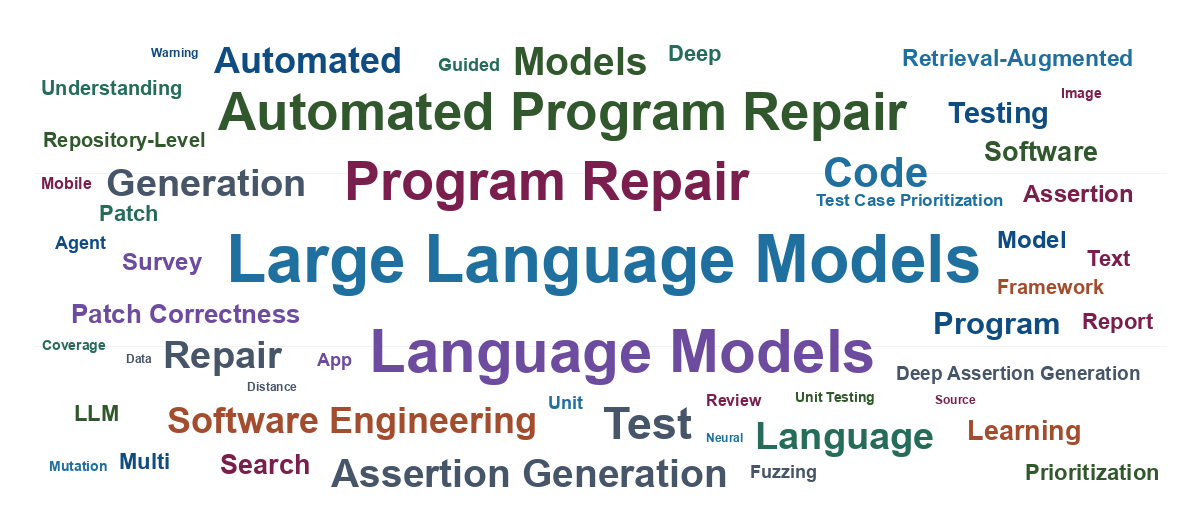
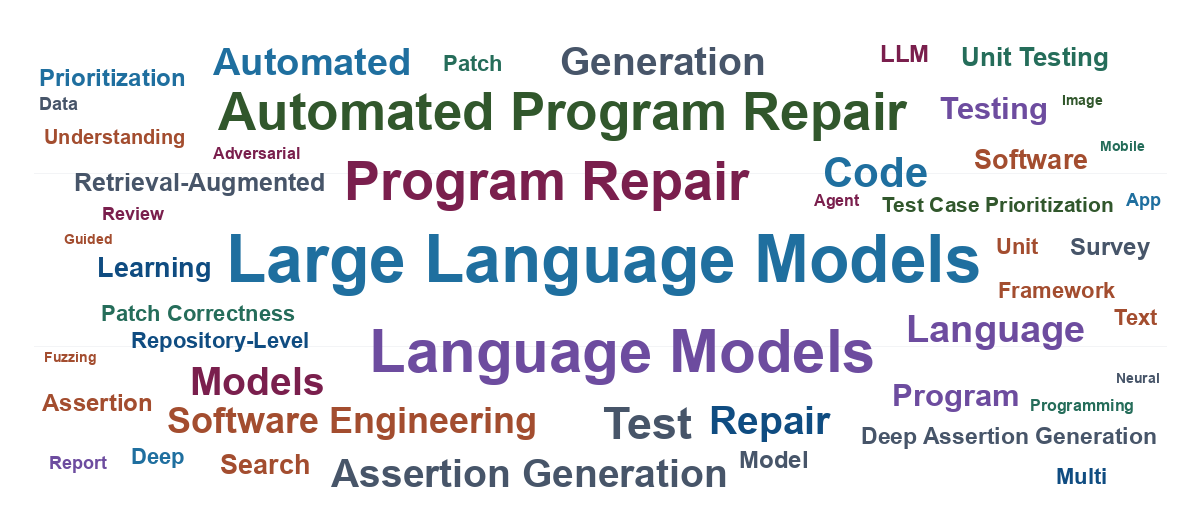
Add TestART publication

diff --git a/_pages/publications.md b/_pages/publications.md
@@ -52,211 +52,215 @@ Note: <sup>&#42;</sup> denotes corresponding author; <sup>&dagger;</sup> denotes
   **Quanjun Zhang**, Chengyu Gao, Yu Han, Ye Shang, Chunrong Fang, Zhenyu Chen, Liang Xiao.<br>
   In *ACM Transactions on Software Engineering and Methodology*, pages to appear, 2026.
 
-7. `EMSE'26` **ComPass: Contrastive Learning for Automated Patch Correctness Assessment in Program Repair**. (CCF-B)<br>
+7. `TOSEM'26` **TestART: Improving LLM-based Unit Testing via Co-evolution of Automated Generation and Repair Iteration**. (<span class="ccf-a">CCF-A</span>)<br>
+  Siqi Gu, **Quanjun Zhang**, Kecheng Li, Chunrong Fang, Fangyuan Tian, Liuchuan Zhu, Jianyi Zhou, Zhenyu Chen.<br>
+  In *ACM Transactions on Software Engineering and Methodology*, pages to appear, 2026.
+
+8. `EMSE'26` **ComPass: Contrastive Learning for Automated Patch Correctness Assessment in Program Repair**. (CCF-B)<br>
   **Quanjun Zhang**, Ye Shang, Haichuan Hu, Chunrong Fang, Zhenyu Chen, Liang Xiao.<br>
   In *Empirical Software Engineering*, pages to appear, 2026.
 
-8. `TOSEM'26` **A Systematic Literature Review on Large Language Models for Automated Program Repair**. (<span class="ccf-a">CCF-A</span>)<br>
+9. `TOSEM'26` **A Systematic Literature Review on Large Language Models for Automated Program Repair**. (<span class="ccf-a">CCF-A</span>)<br>
   **Quanjun Zhang**, Chunrong Fang, Yuxiang Ma, Yang Xie, Weisong Sun, Yun Yang, Zhenyu Chen.<br>
   In *ACM Transactions on Software Engineering and Methodology*, pages to appear, 2026. [[arXiv](https://arxiv.org/abs/2405.01466)] [[Data](https://github.com/iSEngLab/AwesomeLLM4APR)]
 
-9. `CSR'26` **A survey of large language models for legal tasks: Progress, prospects and challenges**. (SCI-Q1, IF 12.8)<br>
+10. `CSR'26` **A survey of large language models for legal tasks: Progress, prospects and challenges**. (SCI-Q1, IF 12.8)<br>
   Congqing He, Haichuan Hu, Yanli Li, Hao Zhang, **Quanjun Zhang**.<br>
   In *Computer Science Review*, pages to appear, 2026.
 
-10. `TOSEM'26` **Abstract Syntax Tree for Programming Language Understanding and Representation**.<br>
+11. `TOSEM'26` **Abstract Syntax Tree for Programming Language Understanding and Representation**.<br>
   Weisong Sun, Chunrong Fang, Yun Miao, Mengzhe Yuan, Zhenpeng Chen, Yuchen Chen, **Quanjun Zhang**, An Guo, Xiang Chen, Zhenyu Chen.<br>
   In *ACM Transactions on Software Engineering and Methodology*, pages to appear, 2026.
 
-11. `QRS'26` **AttnProbe: Steering LLM Attention for Unit Test Generation via Coverage-Guided Pruning and Mutation Feedback**. (CCF-C)<br>
+12. `QRS'26` **AttnProbe: Steering LLM Attention for Unit Test Generation via Coverage-Guided Pruning and Mutation Feedback**. (CCF-C)<br>
   Siqi Gu, Jiawei Liu, Zhaowei Zong, **Quanjun Zhang**, Zhenyu Chen.<br>
   In *International Conference on Software Quality, Reliability and Security*, pages to appear, 2026.
 
-12. `FSE'25-Tool` **A Multi-Agent LLM Framework for Repository-Level Unit Test Generation**. (<span class="ccf-a">CCF-A</span>)<br>
+13. `FSE'25-Tool` **A Multi-Agent LLM Framework for Repository-Level Unit Test Generation**. (<span class="ccf-a">CCF-A</span>)<br>
   Ye Shang, **Quanjun Zhang**<sup>&#42;</sup>, Zhenyu Zhan, Ke Huang, Chunrong Fang<sup>&#42;</sup>, Zhenyu Chen.<br>
   In *ACM International Conference on the Foundations of Software Engineering, Tool Demonstrations Track*, pages to appear.
 
-13. `TOSEM'25` **Pre-trained Model-based Actionable Warning Identification: A Feasibility Study**. (<span class="ccf-a">CCF-A</span>)<br>
+14. `TOSEM'25` **Pre-trained Model-based Actionable Warning Identification: A Feasibility Study**. (<span class="ccf-a">CCF-A</span>)<br>
   Xiuting Ge, Chunrong Fang, **Quanjun Zhang**, Daoyuan Wu, Bowen Yu, Qirui Zheng, An Guo, Shang-wei Lin, Zhihong Zhao, Yang Liu, Zhenyu Chen.<br>
   In *ACM Transactions on Software Engineering and Methodology*, pages to appear, 2025.
 
-14. `SCIS'25` **A Survey on Large Language Models for Software Engineering**. (<span class="ccf-a">CCF-A</span>)<br>
+15. `SCIS'25` **A Survey on Large Language Models for Software Engineering**. (<span class="ccf-a">CCF-A</span>)<br>
   **Quanjun Zhang**, Chunrong Fang, Yang Xie, Yaxin Zhang, Shengcheng Yu, Weisong Sun, Yun Yang, Zhenyu Chen.<br>
   In *SCIENCE CHINA Information Sciences*, pages to appear, 2025. [[arXiv](https://arxiv.org/abs/2312.15223)] [[Data](https://github.com/iSEngLab/AwesomeLLM4SE)]
 
-15. `CSUR'25` **Vision-Based Mobile App GUI Testing: A Survey**. (SCI-Q1)<br>
+16. `CSUR'25` **Vision-Based Mobile App GUI Testing: A Survey**. (SCI-Q1)<br>
   Shengcheng Yu, Chunrong Fang, Ziyuan Tuo, **Quanjun Zhang**, Chunyang Chen, Zhenyu Chen, Zhendong Su.<br>
   In *ACM Computing Surveys*, pages to appear, 2025.
 
-16. `TOSEM'25` **Hidden Backdoor Attack against Neural Code Search Models**. (<span class="ccf-a">CCF-A</span>)<br>
+17. `TOSEM'25` **Hidden Backdoor Attack against Neural Code Search Models**. (<span class="ccf-a">CCF-A</span>)<br>
   Yuchen Chen, Weisong Sun, Chunrong Fang, **Quanjun Zhang**, Zhenyu Chen, Xiangyu Zhang.<br>
   In *ACM Transactions on Software Engineering and Methodology*, pages to appear, 2025.
 
-17. `FCS'25` **TestBench: Evaluating Class-Level Test Case Generation Capability of Large Language Models**. (CCF-B)<br>
+18. `FCS'25` **TestBench: Evaluating Class-Level Test Case Generation Capability of Large Language Models**. (CCF-B)<br>
   **Quanjun Zhang**, Ye Shang, Chunrong Fang, Siqi Gu, Jianyi Zhou, Zhenyu Chen.<br>
   In *Frontiers of Computer Science*, pages to appear, 2025.
 
-18. `TOSEM'25` **ACTesting: Automated Cross-modal Testing Method of Text-to-Image Software**. (<span class="ccf-a">CCF-A</span>)<br>
+19. `TOSEM'25` **ACTesting: Automated Cross-modal Testing Method of Text-to-Image Software**. (<span class="ccf-a">CCF-A</span>)<br>
   Siqi Gu, Chunrong Fang, **Quanjun Zhang**, Zhenyu Chen.<br>
   In *ACM Transactions on Software Engineering and Methodology*, pages to appear, 2025.
 
-19. `TOSEM'25` **Security of Language Models for Code: A Systematic Literature Review**. (<span class="ccf-a">CCF-A</span>)<br>
+20. `TOSEM'25` **Security of Language Models for Code: A Systematic Literature Review**. (<span class="ccf-a">CCF-A</span>)<br>
   Yuchen Chen, Weisong Sun, Chunrong Fang, Zhenpeng Chen, Yifei Ge, Tingxu Han, **Quanjun Zhang**, Yang Liu, Zhenyu Chen, Baowen Xu.<br>
   In *ACM Transactions on Software Engineering and Methodology*, pages to appear, 2025.
 
-20. `TSE'25` **Improving Retrieval-Augmented Deep Assertion Generation via Joint Training**. (<span class="ccf-a">CCF-A</span>)<br>
+21. `TSE'25` **Improving Retrieval-Augmented Deep Assertion Generation via Joint Training**. (<span class="ccf-a">CCF-A</span>)<br>
   **Quanjun Zhang**, Chunrong Fang, Yi Zheng, Ruixiang Qian, Shengcheng Yu, Yuan Zhao, Jianyi Zhou, Yun Yang, Tao Zheng, Zhenyu Chen.<br>
   In *IEEE Transactions on Software Engineering*, pages to appear, 2025.
 
-21. `TOSEM'25` **Improving Deep Assertion Generation via Fine-Tuning Retrieval-Augmented Pre-trained Language Models**. (<span class="ccf-a">CCF-A</span>)<br>
+22. `TOSEM'25` **Improving Deep Assertion Generation via Fine-Tuning Retrieval-Augmented Pre-trained Language Models**. (<span class="ccf-a">CCF-A</span>)<br>
   **Quanjun Zhang**, Chunrong Fang, Yi Zheng, Yaxin Zhang, Yuan Zhao, Rubing Huang, Jianyi Zhou, Yun Yang, Tao Zheng, Zhenyu Chen.<br>
   In *ACM Transactions on Software Engineering and Methodology*, pages to appear, 2025.
 
-22. `ISSTA'25` **A Large-scale Empirical Study on Fine-tuning Large Language Models for Unit Testing**. (<span class="ccf-a">CCF-A</span>)<br>
+23. `ISSTA'25` **A Large-scale Empirical Study on Fine-tuning Large Language Models for Unit Testing**. (<span class="ccf-a">CCF-A</span>)<br>
   Ye Shang, **Quanjun Zhang**<sup>&dagger;</sup>, Chunrong Fang, Siqi Gu, Jianyi Zhou, Zhenyu Chen.<br>
   In *Proceedings of the ACM SIGSOFT International Symposium on Software Testing and Analysis (ISSTA 2025)*, pages to appear. [Acceptance rate: 4.16% (23 / 553)]
 
-23. `JOS'25` **Deep Learning Operator Testing for RISC-V Architecture**. (<span class="ccf-a">CCF-A</span>)<br>
+24. `JOS'25` **Deep Learning Operator Testing for RISC-V Architecture**. (<span class="ccf-a">CCF-A</span>)<br>
   Jiawei Liu, Yan Gao, **Quanjun Zhang**, Ye Shang, Chunrong Fang, Zhenyu Chen.<br>
   In *Journal of Software* (in Chinese), pages to appear, 2025.
 
-24. `JOS'25` **Research Progress of Retrieval-Augmented Generation in Software Engineering**. (<span class="ccf-a">CCF-A</span>)<br>
+25. `JOS'25` **Research Progress of Retrieval-Augmented Generation in Software Engineering**. (<span class="ccf-a">CCF-A</span>)<br>
   **Quanjun Zhang**, Yang Xie, Chunrong Fang<sup>&#42;</sup>, Shengcheng Yu, Yuan Zhao, Zhenyu Chen.<br>
   In *Journal of Software* (in Chinese), pages to appear, 2025.
 
-25. `JOS'25` **Semantic Matching-based Cross-Platform Mobile App Test Script Record and Replay via Large Language Models**. (<span class="ccf-a">CCF-A</span>)<br>
+26. `JOS'25` **Semantic Matching-based Cross-Platform Mobile App Test Script Record and Replay via Large Language Models**. (<span class="ccf-a">CCF-A</span>)<br>
   Shengcheng Yu, Chunrong Fang<sup>&#42;</sup>, Ye Zhong, **Quanjun Zhang**, Qin Liu, Jia Liu, Tao Zheng, Zhenyu Chen.<br>
   In *Journal of Software* (in Chinese), pages to appear, 2024.
 
-26. `TSE'24` **Enhanced Crowdsourced Test Report Prioritization via Image-and-Text Semantic Understanding and Feature Integration**. (<span class="ccf-a">CCF-A</span>)<br>
+27. `TSE'24` **Enhanced Crowdsourced Test Report Prioritization via Image-and-Text Semantic Understanding and Feature Integration**. (<span class="ccf-a">CCF-A</span>)<br>
   Chunrong Fang, Shengcheng Yu, **Quanjun Zhang**, Xin Li, Yulei Liu, and Zhenyu Chen.<br>
   In *IEEE Transactions on Software Engineering*, pages to appear, 2024.
 
-27. `APR'25` **Can GPT-O1 Kill All Bugs? An Evaluation of GPT-Family LLMs on QuixBugs**.<br>
+28. `APR'25` **Can GPT-O1 Kill All Bugs? An Evaluation of GPT-Family LLMs on QuixBugs**.<br>
   Haichuan Hu, Ye Shang, Guolin Xu, Congqing He, **Quanjun Zhang**<sup>&#42;</sup>.<br>
   In *The 6th International Workshop on Automated Program Repair (APR 2025)*.
 
-28. `FSE'25` **Eliminating Backdoors in Neural Code Models for Secure Code Understanding**. (<span class="ccf-a">CCF-A</span>)<br>
+29. `FSE'25` **Eliminating Backdoors in Neural Code Models for Secure Code Understanding**. (<span class="ccf-a">CCF-A</span>)<br>
   Weisong Sun, Yuchen Chen, Chunrong Fang, Yebo Feng, Yuan Xiao, An Guo, **Quanjun Zhang**, Zhenyu Chen, Baowen Xu, Yang Liu.<br>
   In *Proceedings of the ACM International Conference on the Foundations of Software Engineering (FSE 2025)*, pages to appear.
 
-29. `QRS'25` **Chattss: Improving Test Suite Simplification Via Large Language Models**. (CCF-C)<br>
+30. `QRS'25` **Chattss: Improving Test Suite Simplification Via Large Language Models**. (CCF-C)<br>
   Gaolei Yi, Yuan Zhao, Runkang Feng, **Quanjun Zhang**, Zhenyu Chen.<br>
   In *International Conference on Software Quality, Reliability and Security (QRS)*, pages to appear.
 
-30. `TOSEM'24` **Exploring Automated Assertion Generation via Large Language Models**. (<span class="ccf-a">CCF-A</span>)<br>
+31. `TOSEM'24` **Exploring Automated Assertion Generation via Large Language Models**. (<span class="ccf-a">CCF-A</span>)<br>
   **Quanjun Zhang**, Weifeng Sun, Chunrong Fang, Bowen Yu, Hongyan Li, Meng Yan, Jianyi Zhou, Zhenyu Chen.<br>
   In *ACM Transactions on Software Engineering and Methodology*, pages to appear, 2024.
 
-31. `TOSEM'24` **FunFuzz: Greybox Fuzzing with Function Significance**. (<span class="ccf-a">CCF-A</span>)<br>
+32. `TOSEM'24` **FunFuzz: Greybox Fuzzing with Function Significance**. (<span class="ccf-a">CCF-A</span>)<br>
   Ruixiang Qian, **Quanjun Zhang**, Chunrong Fang, Lihua Guo, Zhenyu Chen.<br>
   In *ACM Transactions on Software Engineering and Methodology*, pages to appear, 2024.
 
-32. `FSE'24` **Semi-Supervised Crowdsourced Test Report Clustering via Screenshot-Text Binding Rules**. (<span class="ccf-a">CCF-A</span>)<br>
+33. `FSE'24` **Semi-Supervised Crowdsourced Test Report Clustering via Screenshot-Text Binding Rules**. (<span class="ccf-a">CCF-A</span>)<br>
   Shengcheng Yu, Chunrong Fang<sup>&#42;</sup>, **Quanjun Zhang**, Mingzhe Du, Jia Liu, Zhenyu Chen.<br>
   In *Proceedings of the 32nd ACM Symposium on the Foundations of Software Engineering (FSE '24)*, July 15--19, 2024, Porto de Galinhas, Brazil.
 
-33. `TOSEM'24` **DiPri: Distance-based Seed Prioritization for Greybox Fuzzing**. (<span class="ccf-a">CCF-A</span>)<br>
+34. `TOSEM'24` **DiPri: Distance-based Seed Prioritization for Greybox Fuzzing**. (<span class="ccf-a">CCF-A</span>)<br>
   Ruixiang Qian, **Quanjun Zhang**, Chunrong Fang, Yang Ding, Shun Li, Zhenyu Chen.<br>
   In *ACM Transactions on Software Engineering and Methodology*, pages to appear, 2024.
 
-34. `TOSEM'24` **A Survey of Source Code Search: A 3-Dimensional Perspective**. (<span class="ccf-a">CCF-A</span>)<br>
+35. `TOSEM'24` **A Survey of Source Code Search: A 3-Dimensional Perspective**. (<span class="ccf-a">CCF-A</span>)<br>
   Weisong Sun, Chunrong Fang, Yifei Ge, Yuling Hu, Yuchen Chen, **Quanjun Zhang**, Xiuting Ge, Yang Liu, Zhenyu Chen.<br>
   In *ACM Transactions on Software Engineering and Methodology*, pages to appear, 2024.
 
-35. `SCIS'24` **Improving Actionable Warning Identification via the Refined Warning-inducing Context Representation**. (<span class="ccf-a">CCF-A</span>)<br>
+36. `SCIS'24` **Improving Actionable Warning Identification via the Refined Warning-inducing Context Representation**. (<span class="ccf-a">CCF-A</span>)<br>
   Xiuting Ge, Chunrong Fang, Xuanye Li, **Quanjun Zhang**, Jia Liu, Zhihong Zhao, Zhenyu Chen.<br>
   In *SCIENCE CHINA Information Sciences*, pages to appear, 2024.
 
-36. `TSE'24` **ESALE: Enhancing Code-Summary Alignment Learning for Source Code Summarization**. (<span class="ccf-a">CCF-A</span>)<br>
+37. `TSE'24` **ESALE: Enhancing Code-Summary Alignment Learning for Source Code Summarization**. (<span class="ccf-a">CCF-A</span>)<br>
   Chunrong Fang, Weisong Sun, Yuchen Chen, Xiao Chen, Zhao Wei, **Quanjun Zhang**, Yudu You, Bin Luo, Yang Liu, Zhenyu Chen.<br>
   In *IEEE Transactions on Software Engineering*, 50(8):2077-2095, 2024.
 
-37. `TSE'24` **APPT: Boosting Automated Patch Correctness Prediction via Fine-tuning Pre-trained Models**. (<span class="ccf-a">CCF-A</span>)<br>
+38. `TSE'24` **APPT: Boosting Automated Patch Correctness Prediction via Fine-tuning Pre-trained Models**. (<span class="ccf-a">CCF-A</span>)<br>
   **Quanjun Zhang**, Chunrong Fang, Weisong Sun, Yan Liu, Tieke He, Xiaodong Hao, Zhenyu Chen.<br>
   In *IEEE Transactions on Software Engineering*, pages to appear, 2024. [[arXiv](https://arxiv.org/abs/2301.12453)] [[Data](https://github.com/iSEngLab/APPT)]
 
-38. `TOSEM'24` **Machine Translation Testing via Syntactic Tree Pruning**. (<span class="ccf-a">CCF-A</span>)<br>
+39. `TOSEM'24` **Machine Translation Testing via Syntactic Tree Pruning**. (<span class="ccf-a">CCF-A</span>)<br>
   **Quanjun Zhang**, Juan Zhai, Chunrong Fang, Jiawei Liu, Weisong Sun, Haichuan Hu and Qingyu Wang.<br>
   In *ACM Transactions on Software Engineering and Methodology*, 39 pages, 2024. [[PDF](https://arxiv.org/abs/2401.00751)] [[Data](https://github.com/iSEngLab/STP)]
 
-39. `TOSEM'23` **A Survey of Learning-based Automated Program Repair**. (<span class="ccf-a">CCF-A</span>, SCI Q1)<br>
+40. `TOSEM'23` **A Survey of Learning-based Automated Program Repair**. (<span class="ccf-a">CCF-A</span>, SCI Q1)<br>
   **Quanjun Zhang**, Chunrong Fang, Yuxiang Ma, Weisong Sun, Zhenyu Chen.<br>
   In *ACM Transactions on Software Engineering and Methodology*, 69 pages, 2023. [[PDF](https://arxiv.org/abs/2301.03270)] [[Data](https://github.com/iSEngLab/AwesomeLearningAPR)]
 
-40. `TDSC'23` **Pre-trained Model-based Automated Software Vulnerability Repair: How Far are We?**. (<span class="ccf-a">CCF-A</span>, SCI Q1)<br>
+41. `TDSC'23` **Pre-trained Model-based Automated Software Vulnerability Repair: How Far are We?**. (<span class="ccf-a">CCF-A</span>, SCI Q1)<br>
   **Quanjun Zhang**, Chunrong Fang, Bowen Yu, Weisong Sun, Tongke Zhang, Zhenyu Chen.<br>
   In *IEEE Transactions on Dependable and Secure Computing*, pages to appear, 2023. [[PDF](https://arxiv.org/pdf/2308.12533.pdf)] [[Data](https://github.com/iSEngLab/LLM4VulFix)]
 
-41. `ASE'23` **GAMMA: Revisiting Template-based Automated Program Repair via Mask Prediction**. (<span class="ccf-a">CCF-A</span>)<br>
+42. `ASE'23` **GAMMA: Revisiting Template-based Automated Program Repair via Mask Prediction**. (<span class="ccf-a">CCF-A</span>)<br>
   **Quanjun Zhang**, Chunrong Fang, Tongke Zhang, Bowen Yu, Weisong Sun, Zhenyu Chen.<br>
   In *38th IEEE/ACM International Conference on Automated Software Engineering (ASE 2023)*, pages to appear, 2023. [[PDF](https://arxiv.org/pdf/2309.09308.pdf)] [[Data](https://github.com/iSEngLab/AwesomeLearningAPR)]
 
-42. `TOSEM'23` **An Extractive-and-Abstractive Framework for Source Code Summarization**. (<span class="ccf-a">CCF-A</span>, SCI Q1)<br>
+43. `TOSEM'23` **An Extractive-and-Abstractive Framework for Source Code Summarization**. (<span class="ccf-a">CCF-A</span>, SCI Q1)<br>
   Weisong Sun, Chunrong Fang, Yuchen Chen, **Quanjun Zhang**, Guanhong Tao, Yudu You, Tingxu Han, Yifei Ge, Yuling Hu, Bin Luo, Zhenyu Chen.<br>
   In *ACM Transactions on Software Engineering and Methodology*, 40 pages, 2023.
 
-43. `ACL'23` **Backdooring Neural Code Search**. (<span class="ccf-a">CCF-A</span>)<br>
+44. `ACL'23` **Backdooring Neural Code Search**. (<span class="ccf-a">CCF-A</span>)<br>
   Weisong Sun, Yuchen Chen, Guanhong Tao, Chunrong Fang, Xiangyu Zhang, **Quanjun Zhang**, Bin Luo.<br>
   In *The 61st Annual Meeting of the Association for Computational Linguistics*, July 9--14, 2023, pages to appear, Toronto, Canada.
 
-44. `TSE'23` **Mobile App Crowdsourced Test Report Consistency Detection via Deep Image-and-Text Fusion Understanding**. (<span class="ccf-a">CCF-A</span>)<br>
+45. `TSE'23` **Mobile App Crowdsourced Test Report Consistency Detection via Deep Image-and-Text Fusion Understanding**. (<span class="ccf-a">CCF-A</span>)<br>
   Shengcheng Yu, Chunrong Fang, **Quanjun Zhang**, Zhihao Cao, Yexiao Yun, Zhenfei Cao, Kai Mei, Zhenyu Chen.<br>
   In *IEEE Transactions on Software Engineering*, pages to appear, 2023.
 
-45. `Globecom'23` **OATGA: Optimizing Adversarial Training via Genetic Algorithm for Automatic Modulation Classification**. (EI)<br>
+46. `Globecom'23` **OATGA: Optimizing Adversarial Training via Genetic Algorithm for Automatic Modulation Classification**. (EI)<br>
   Zhida Bao, Jiawei He, **Quanjun Zhang**, Chunrong Fang, Keshav Sood and Yun Lin.<br>
   In *IEEE Global Communications Conference*, December 4--8, 2023, pages to appear, Kuala Lumpur, Malaysia.
 
-46. `Fuzzing'23` **DiPri: Distance-Based Seed Prioritization for Greybox Fuzzing (Registered Report)**. (EI)<br>
+47. `Fuzzing'23` **DiPri: Distance-Based Seed Prioritization for Greybox Fuzzing (Registered Report)**. (EI)<br>
   Ruixiang Qian, **Quanjun Zhang**, Chunrong Fang, Zhenyu Chen.<br>
   In *Proceedings of the 2nd International Fuzzing Workshop*, co-located with ISSTA'23, pages to appear, 2023.
 
-47. `IST'22` **Test case classification via few-shot learning**. (CCF-B, SCI Q2)<br>
+48. `IST'22` **Test case classification via few-shot learning**. (CCF-B, SCI Q2)<br>
   Yuan Zhao, Sining Liu, **Quanjun Zhang**, Xiuting Ge, Jia Liu.<br>
   In *Information and Software Technology*, pages to appear, 2023.
 
-48. `ASE'22-Tool` **ElecDaug: Electromagnetic Data Augmentation for Model Repair based on Metamorphic Relation**. (<span class="ccf-a">CCF-A</span>)<br>
+49. `ASE'22-Tool` **ElecDaug: Electromagnetic Data Augmentation for Model Repair based on Metamorphic Relation**. (<span class="ccf-a">CCF-A</span>)<br>
   Jiawei He, Zhida Bao, **Quanjun Zhang**, Weisong Sun, Jiawei Liu, Chunrong Fang, Yun Lin.<br>
   In *The 37th IEEE/ACM International Conference on Automated Software Engineering*, October 10--14, 2022, pages to appear, Michigan, USA.
 
-49. `JSS'22` **Test Case Prioritization Using Partial Attention**. (CCF-B, SCI Q2)<br>
+50. `JSS'22` **Test Case Prioritization Using Partial Attention**. (CCF-B, SCI Q2)<br>
   **Quanjun Zhang**, Chunrong Fang, Weisong Sun, Shencheng Yu, Yutao Xu, Yulei Liu.<br>
   In *Journal of Systems & Software*, pages to appear, 2022.
 
-50. `DSA'22` **Interactive Patch Filtering via Test Generation**. (EI)<br>
+51. `DSA'22` **Interactive Patch Filtering via Test Generation**. (EI)<br>
   **Quanjun Zhang**, Xu Zhai, Shicheng Xu, Wanmin Huang, Jingui Zhang, Yaoming Fan.<br>
   In *2022 9th International Conference on Dependable Systems and Their Applications (DSA)*, pages to appear, 2022.
 
-51. `DSA'22` **Test case classification via few-shot learning**. (EI)<br>
+52. `DSA'22` **Test case classification via few-shot learning**. (EI)<br>
   Yuan Zhao, Sining Liu, **Quanjun Zhang**, Xiuting Ge, Jia Liu.<br>
   In *2022 9th International Conference on Dependable Systems and Their Applications (DSA)*, pages to appear, 2022.
 
-52. `IST'22` **Test case recommendation based on balanced distance of test targets**. (CCF-B, SCI Q2)<br>
+53. `IST'22` **Test case recommendation based on balanced distance of test targets**. (CCF-B, SCI Q2)<br>
   Weisong Sun, **Quanjun Zhang**, Chunrong Fang, Yuchen Chen, Xingya Wang, Ziyuan Wang.<br>
   In *Information and Software Technology*, pages to appear, 2022.
 
-53. `ISSTA'22` **CIRCLE: Continual Repair across Programming Languages**. (<span class="ccf-a">CCF-A</span>)<br>
+54. `ISSTA'22` **CIRCLE: Continual Repair across Programming Languages**. (<span class="ccf-a">CCF-A</span>)<br>
   Wei Yuan, **Quanjun Zhang**<sup>&dagger;</sup>, Tieke He, Chunrong Fang, Nguyen Quoc Viet Hung, Hongzhi Yin.<br>
   In *Proceedings of the 31st ACM SIGSOFT International Symposium on Software Testing and Analysis*, July 18--22, 2022, pages to appear, Virtual, South Korea.
 
-54. `Internetware'22` **Investigating Coverage Guided Fuzzing with Mutation Testing**. (EI)<br>
+55. `Internetware'22` **Investigating Coverage Guided Fuzzing with Mutation Testing**. (EI)<br>
   Ruixiang Qian, **Quanjun Zhang**<sup>&dagger;</sup>, Chunrong Fang, Lihua Guo.<br>
   In *The 13th Asia-Pacific Symposium on Internetware*, June 11--12, 2022, pages to appear, Hohhot, China.
 
-55. `ICSE'22-Tool` **TauLiM: Test Data Augmentation of LiDAR Point Cloud by Metamorphic Relation**. (<span class="ccf-a">CCF-A</span>)<br>
+56. `ICSE'22-Tool` **TauLiM: Test Data Augmentation of LiDAR Point Cloud by Metamorphic Relation**. (<span class="ccf-a">CCF-A</span>)<br>
   Ju Lin, Jiawei Liu, **Quanjun Zhang**, Xufan Zhang, Chunrong Fang.<br>
   In *The 44th International Conference on Software Engineering*, Tool Demonstration, May 21--29, 2022, pages to appear, Pittsburgh, PA, USA.
 
-56. `ICSE'22-Tool` **TauPad: Test Data Augmentation of Point Clouds by Adversarial Mutation**. (<span class="ccf-a">CCF-A</span>)<br>
+57. `ICSE'22-Tool` **TauPad: Test Data Augmentation of Point Clouds by Adversarial Mutation**. (<span class="ccf-a">CCF-A</span>)<br>
   Guandi Liu, Jiawei Liu, **Quanjun Zhang**, Chunrong Fang, Xufan Zhang.<br>
   In *The 44th International Conference on Software Engineering*, Tool Demonstration, May 21--29, 2022, pages to appear, Pittsburgh, PA, USA.
 
-57. `ICSE'22` **Code Search based on Context-aware Code Translation**. (<span class="ccf-a">CCF-A</span>)<br>
+58. `ICSE'22` **Code Search based on Context-aware Code Translation**. (<span class="ccf-a">CCF-A</span>)<br>
   Weisong Sun, Chunrong Fang, Yuchen Chen, Guanhong Tao, Tingxu Han, **Quanjun Zhang**.<br>
   In *The 44th International Conference on Software Engineering*, May 21--29, 2022, pages to appear, Pittsburgh, PA, USA.
 
-58. `JSS'20` **Regression test case prioritization by code combinations coverage**. (CCF-B, SCI Q2)<br>
+59. `JSS'20` **Regression test case prioritization by code combinations coverage**. (CCF-B, SCI Q2)<br>
   Rubing Huang, **Quanjun Zhang**, Dave Towey, Weifeng Sun, Jinfu Chen.<br>
   In *Journal of Systems and Software*, 2020, to appear.
 {: .bracketed-publication-list}
